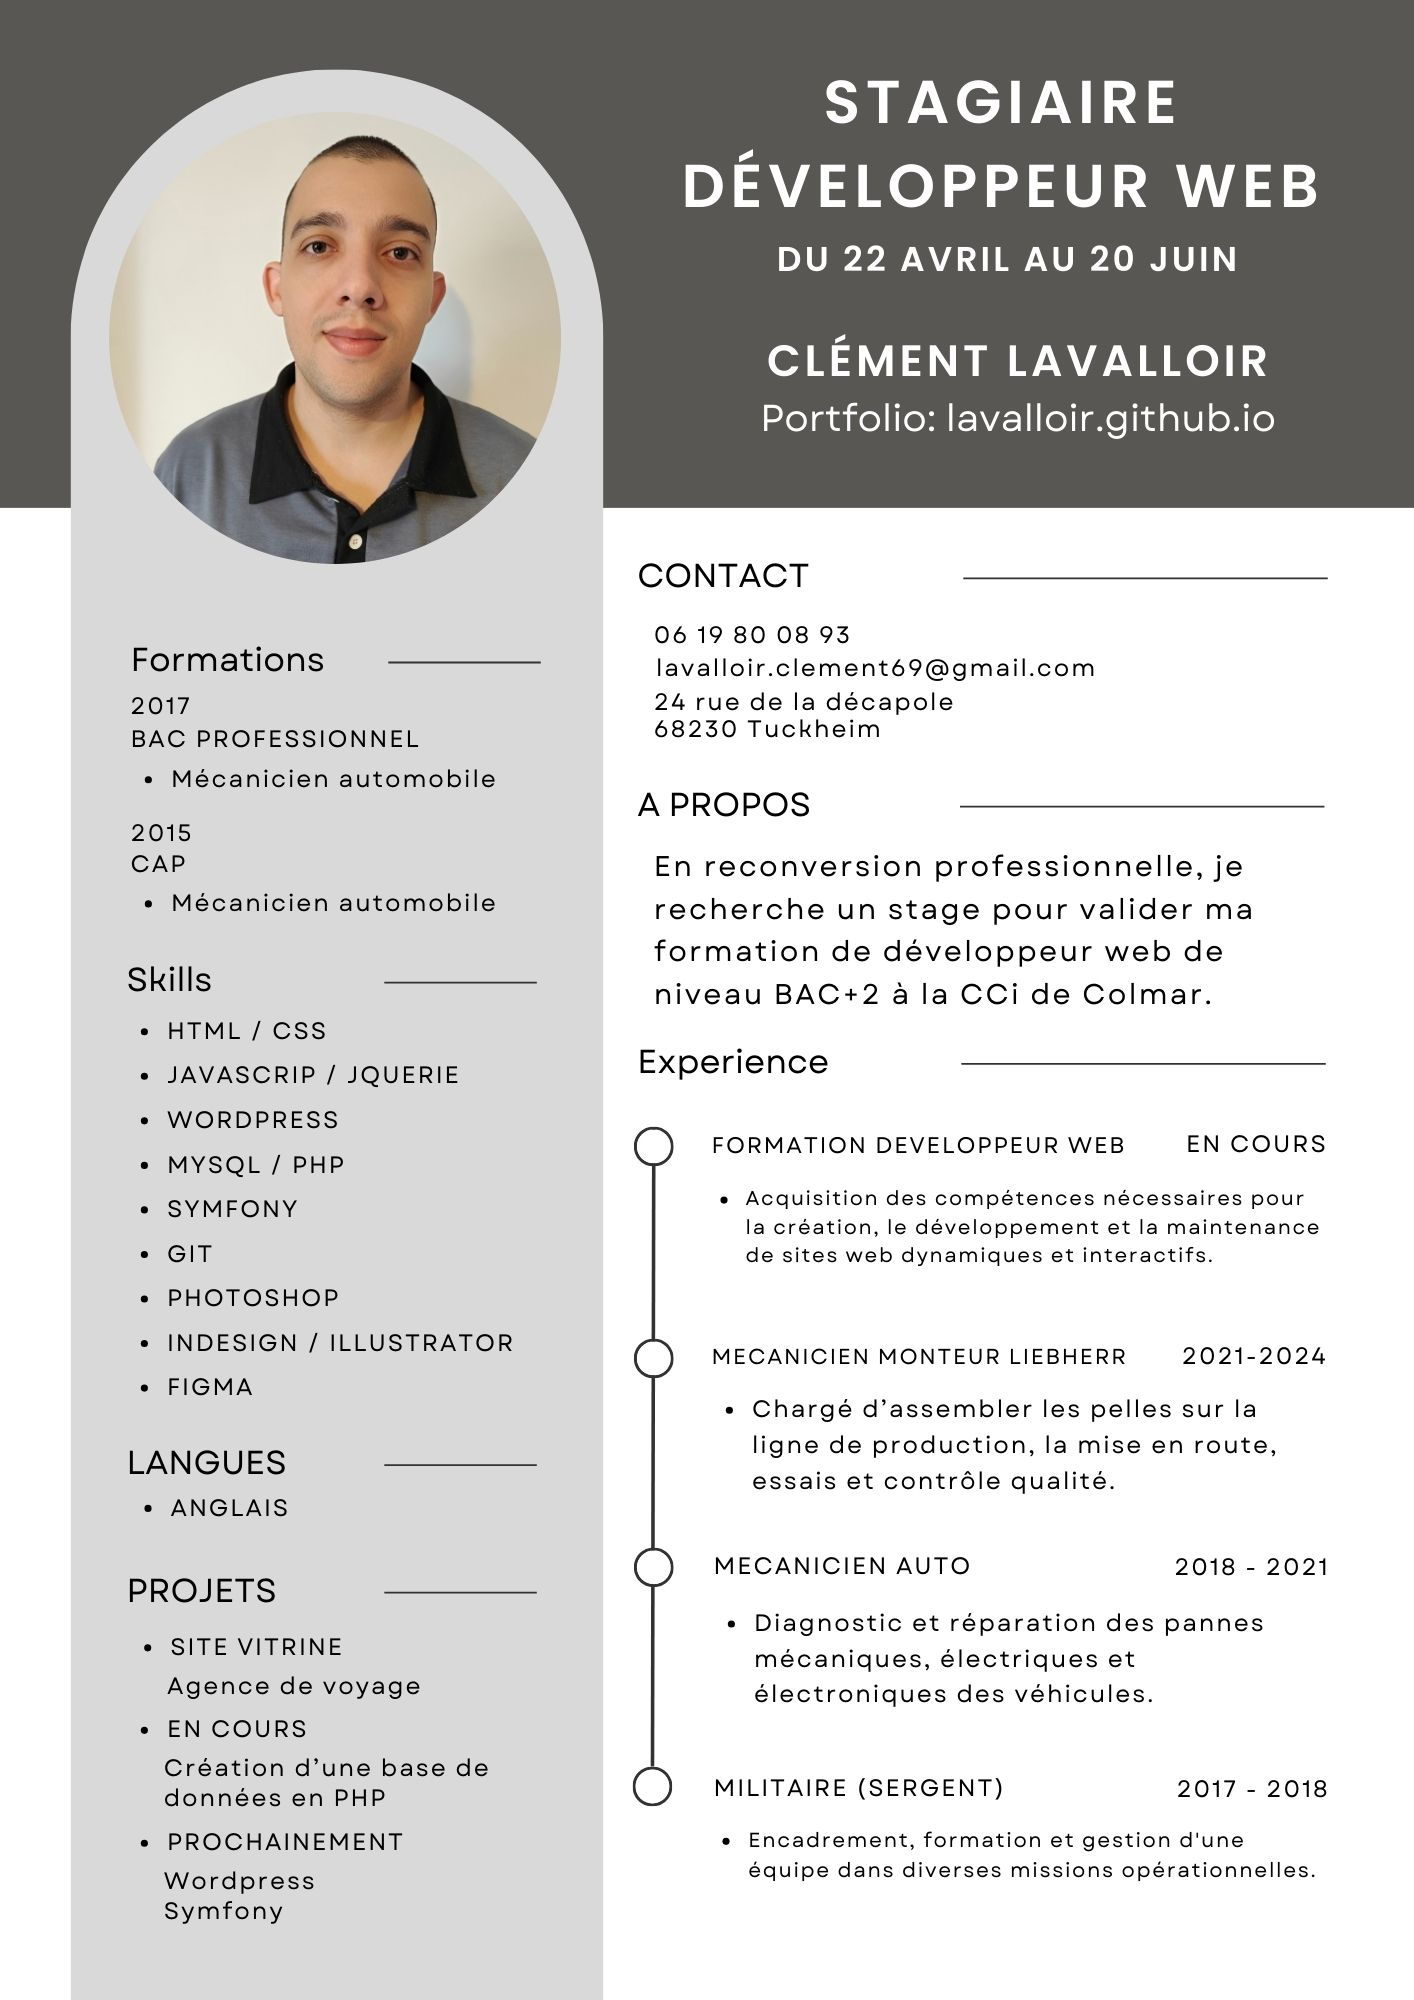
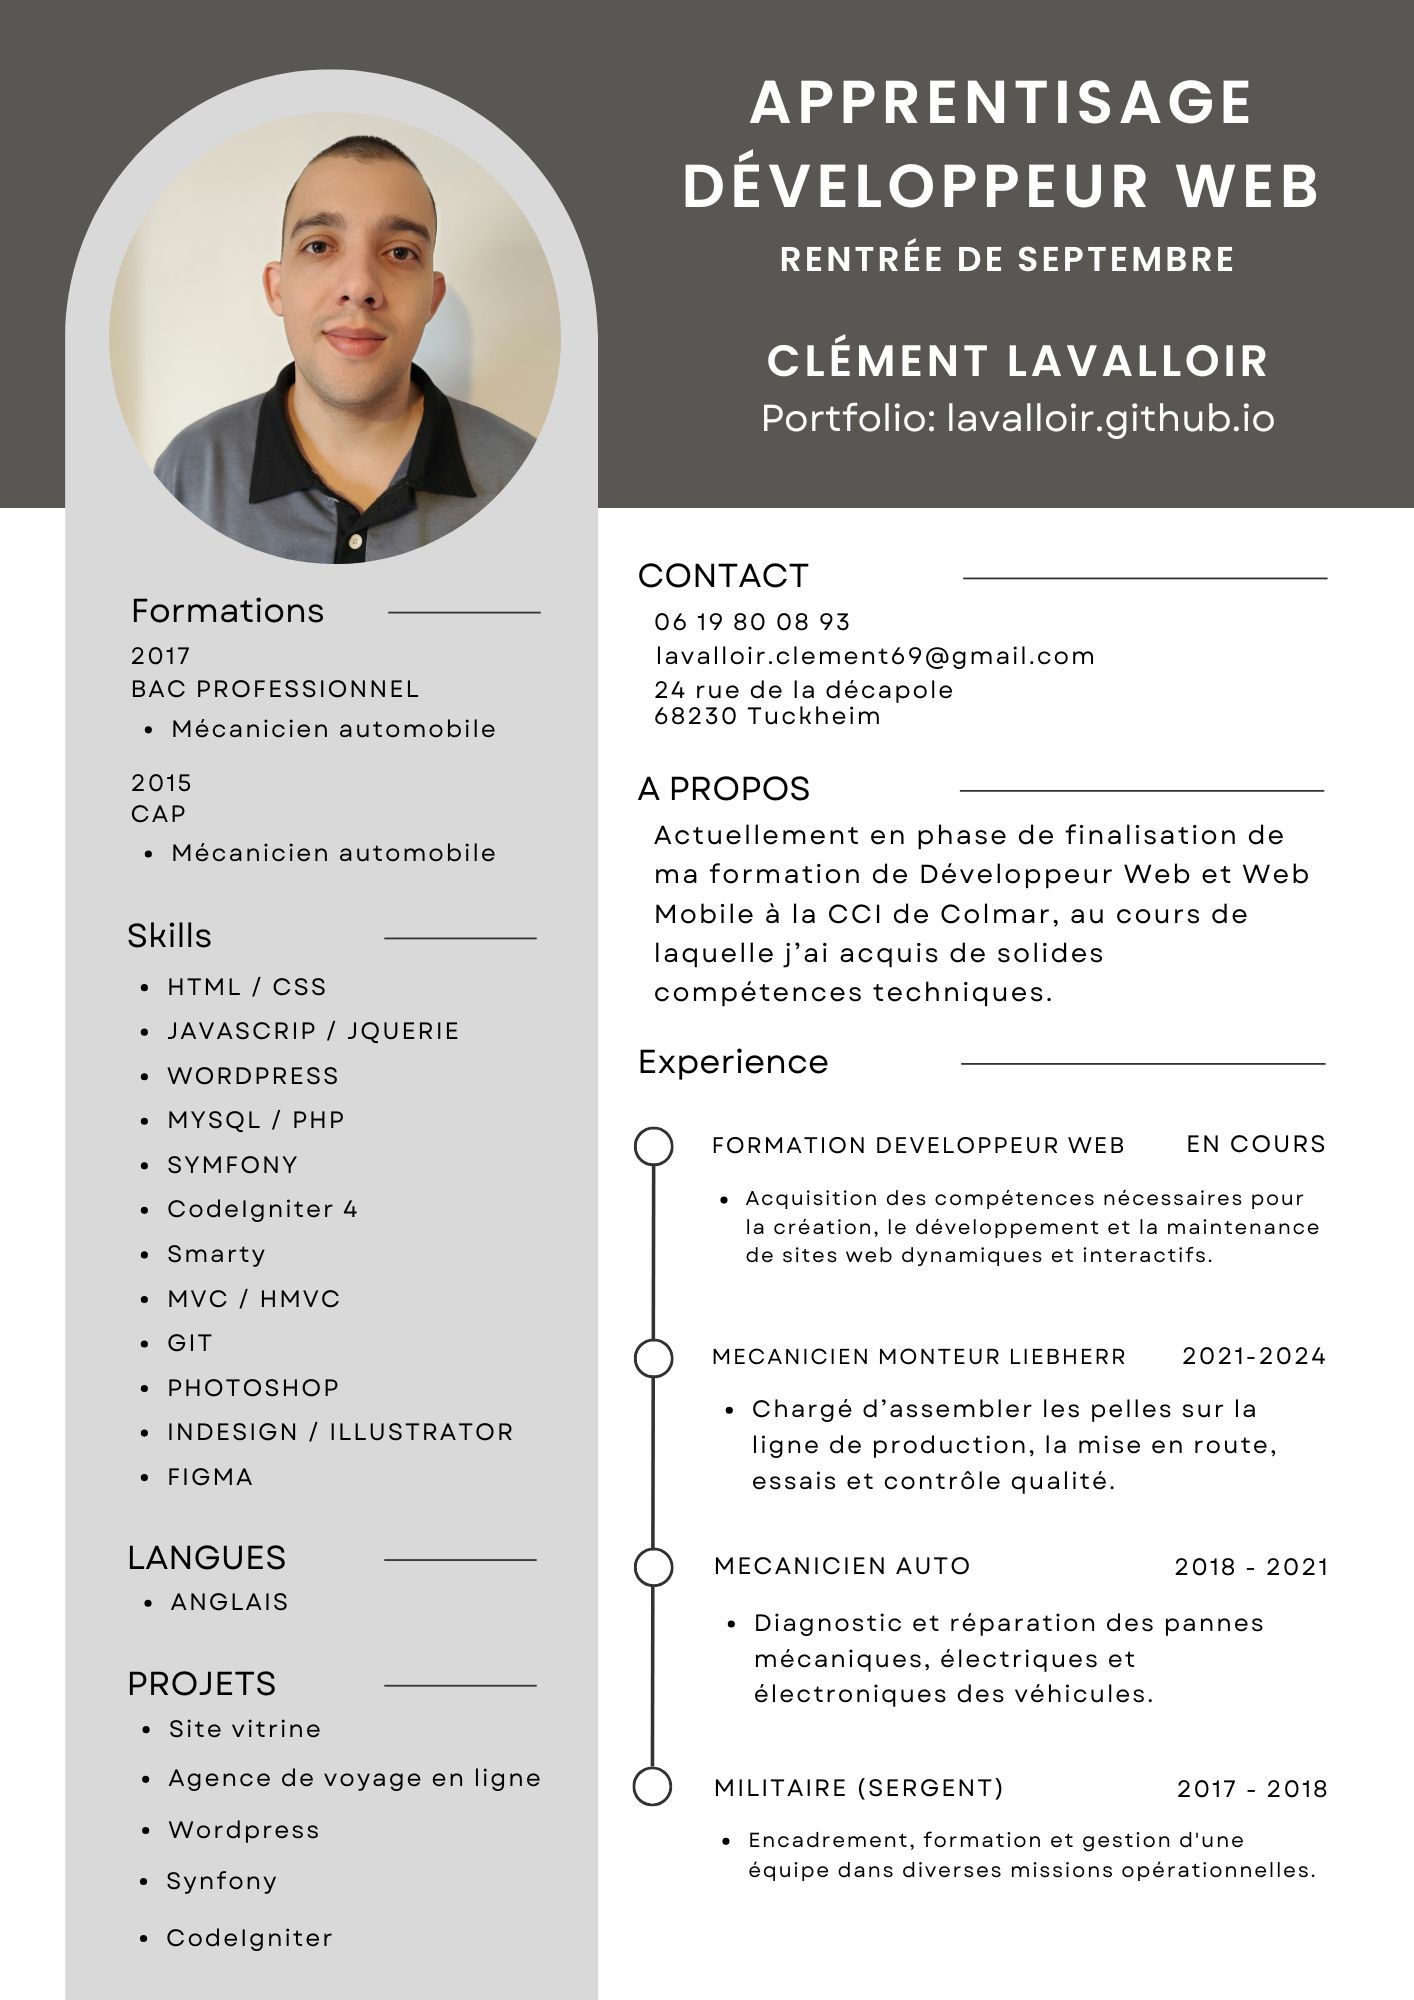
modification cv

diff --git a/index.html b/index.html
@@ -46,7 +46,7 @@
       <section id="cv">
         <div class="cv">
           <img
-            src="./assets/CV_lavalloir_clement1.jpg"
+            src="./assets/cv_lavalloir_clement1.jpg"
             alt="CV Clément LAVALLOIR"
           />
         </div>
@@ -54,7 +54,7 @@
         <div class="cvB">
           <div>
             <a
-              href="./assets/CV_lavalloir_clement.jpg"
+              href="./assets/cv_lavalloir_clement.jpg"
               class="button"
               target="_blank"
               >Ouvrir ></a
@@ -63,7 +63,7 @@
 
           <div>
             <a
-              href="./assets/CV_lavalloir_clement.jpg"
+              href="./assets/cv_lavalloir_clement.jpg"
               class="button"
               download="cv_lavalloir_clement.jpg"
               >Télécharger ></a
@@ -132,7 +132,7 @@
             </div></a
           >
         </article>
-        <article class="project">
+        <article class="project border pointer">
           <img
             src="./assets/wordpress.jpg"
             alt="Projet 3"
@@ -145,7 +145,7 @@
                 >En savoir plus ></a>
           </div>
         </article>
-        <article class="project">
+        <article class="project border pointer">
           <img
             src="./assets/developpement.jpg"
             alt="Projet 3"
@@ -156,6 +156,19 @@
             <p>Logiciel de suivie de maintenance de nos véhicule <br>(en cours de finalisation)</p>
             <a href="https://car-tracker.fr/" class="button" target="_blank"
                 >En savoir plus ></a>
+          </div>
+        </article>
+        <article class="project center">
+          <img
+            src="./assets/code.jpg"
+            alt="Projet 3"
+            class="project-img"
+          />
+          <div class="project-content">
+            <h3>CodeIgniter</h3>
+            <p>Project en HMVC Smarty CodeIgniter 4</p>
+            <p>Création d'un CMS simplifier comme élémentor pour admin</p>
+            <button class="button">En developpement</button>
           </div>
         </article>
       </div>

diff --git a/style.css b/style.css
@@ -1,3 +1,20 @@
+.projects {
+  display: grid;
+  grid-template-columns: repeat(4, 1fr);
+  gap: 20px;
+}
+
+.project {
+  width: 100%;
+}
+
+/* Pour centrer le dernier projet par rapport à la page entière */
+.project.center {
+  grid-column: 1 / -1; /* Étend sur toutes les colonnes */
+  width: calc(25% - 15px); /* Même largeur qu'un seul élément (25% moins une partie du gap) */
+  justify-self: center; /* Centre l'élément horizontalement */
+  margin: 0 auto; /* Centre supplémentaire */
+}
 * {
   margin: 0;
   padding: 0;
@@ -127,6 +144,7 @@ section {
   grid-template-columns: repeat(auto-fit, minmax(300px, 1fr));
   gap: 2rem;
   padding: 0 1rem;
+  align-items: center;
 }
 .pointer {
   cursor: pointer;
